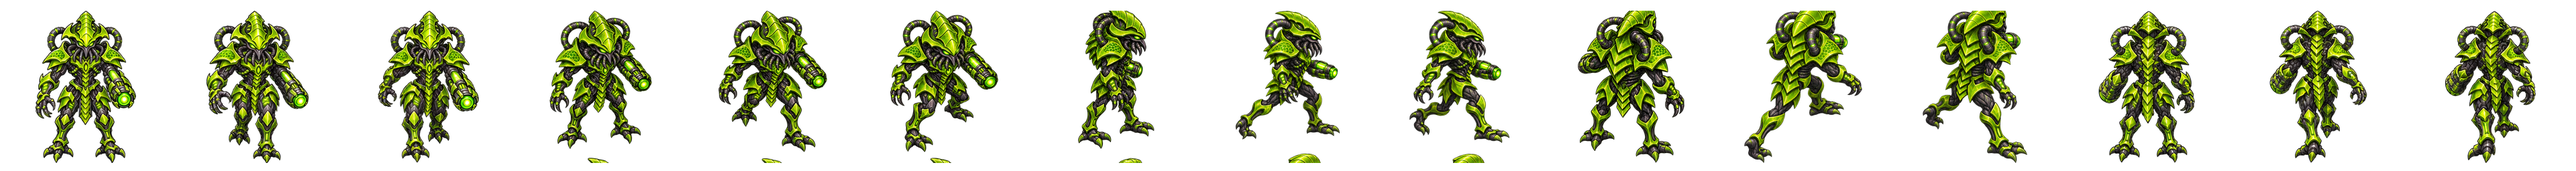
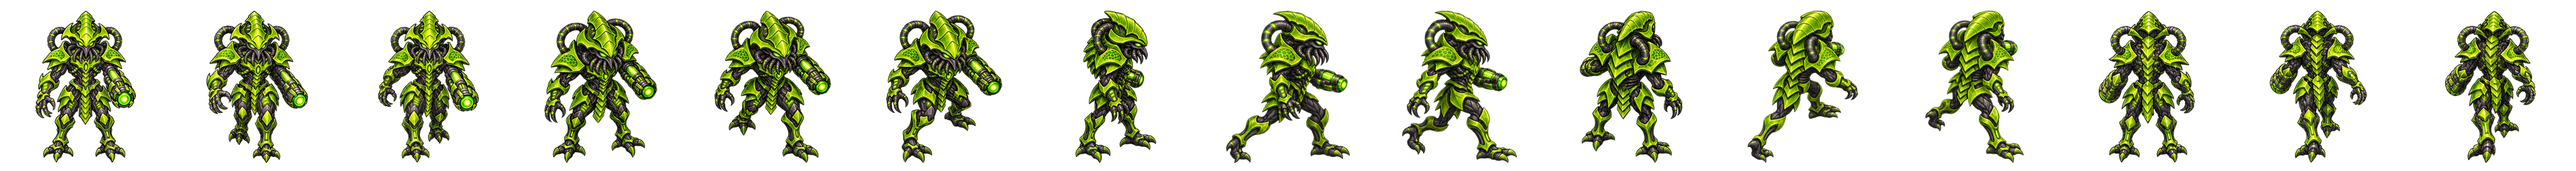
[팀장] GPT 그림 진행분 저장
Claude-Session: https://claude.ai/code/session_013M9CK2TidfikPKvmdBTiuk

Changed region(s): [[0.1875, 0.0625, 0.8125, 0.9688], [0.0, 0.0938, 0.125, 0.9375], [0.0, 0.8125, 0.0625, 0.9062]]

diff --git a/teams/2-디자인/gpt-art/round11/result-shooter.md b/teams/2-디자인/gpt-art/round11/result-shooter.md
@@ -1,0 +1,3 @@
+[alien-shooter-dir.png](/home/user/poki-game/teams/2-디자인/gpt-art/round11/alien-shooter-dir.png)를 만들어 저장했습니다. 5방향마다 서기·걷기 A·걷기 B를 배치한 가로 15칸 시트입니다. 전체 **3840×256 px**, 칸당 **256×256 px**이며, 모든 칸의 투명 배경과 공통 발 기준선을 확인했습니다.
+
+내장 이미지 생성 기능으로 만든 프레임을 합쳤고, 정면과 뒷면의 밝은 배경은 합성 과정에서 제거했습니다. 크기와 투명 여부는 [result-shooter.md](/home/user/poki-game/teams/2-디자인/gpt-art/round11/result-shooter.md)에 기록했습니다.
